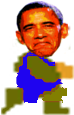
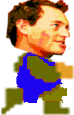
fred

diff --git a/home.html b/home.html
@@ -1,7 +1,7 @@
 <!DOCTYPE html>
 <html>
 <head>
-  <title>Mans On Dat Race Ting</title>
+  <title>8 Brit Race</title>
   <link rel="stylesheet" type="text/css" href="css/style.css">
   <link href='https://fonts.googleapis.com/css?family=Press+Start+2P' rel='stylesheet' type='text/css'>
   <script src="https://ajax.googleapis.com/ajax/libs/jquery/1.11.1/jquery.min.js"></script>
@@ -14,6 +14,6 @@
     <div class="box"></div>
     <div class="box2"></div>
     <div class="finish"></div>
-    <div class="race">RACE <br> Queen Z/X <br> Barack K/L</div>
+    <div class="race">RACE <br> Queen Z/X <br> Fred K/L</div>
 </body>
 </html>

diff --git a/js/app.js b/js/app.js
@@ -115,7 +115,7 @@ $(".reset").click(function() {
   box2Pos = 0;
   overallWinner = 0;
   race = 0;
-  $(".race").text("RACE  Queen Z/X  Barack K/L");
+  $(".race").text("RACE  Queen Z/X  Fred K/L");
   $(".reset").hide();
   $(".race").show();
   cheer.pause();
